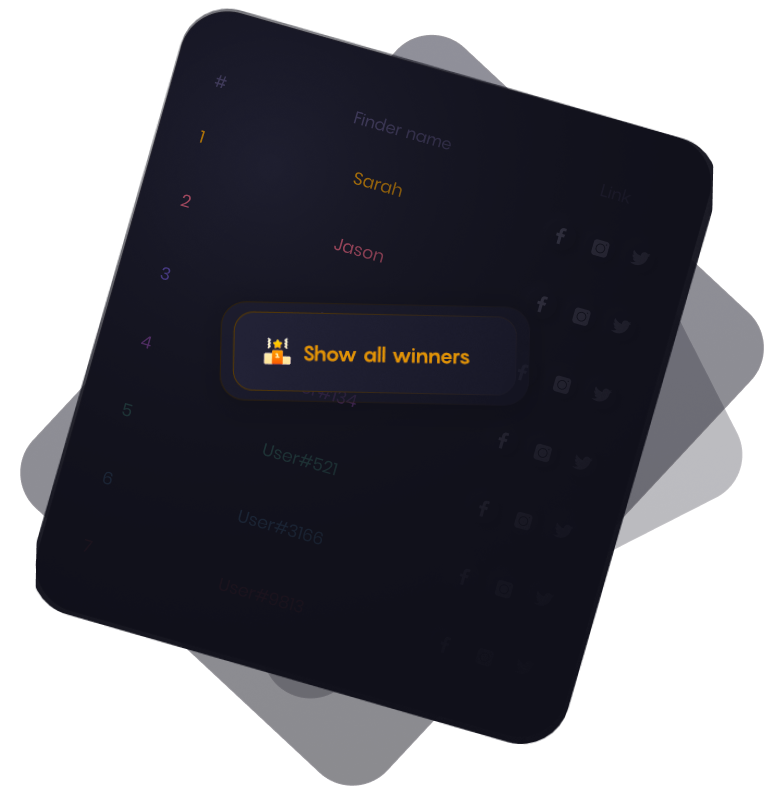
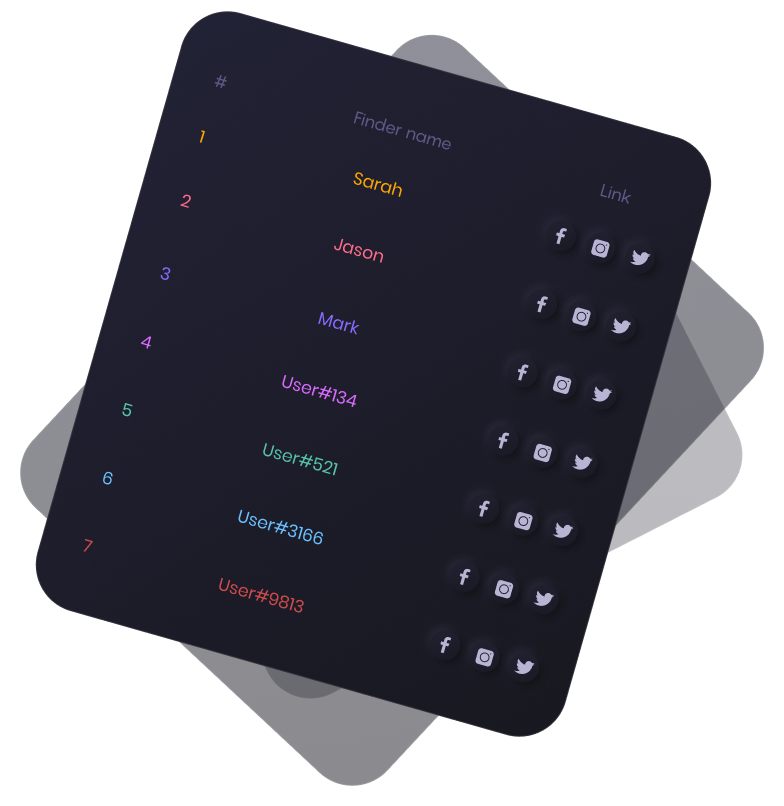
fix: update buttons

diff --git a/common/home/worldmap-section/styled.ts b/common/home/worldmap-section/styled.ts
@@ -96,35 +96,81 @@ export const WorldMapSectionContainer = styled(Container)`
   }
 `
 
-export const DiscoverButton = styled.button`
-  outline: none;
-  border: none;
-  width: 422px;
-  height: 185px;
-  background: url(/assets/images/home/discover-btn.png);
-  background-size: 100% 100%;
-  border-radius: 42px;
+export const DiscoverButton = styled.div`
+  width: 387px;
+  height: 147px;
+  background: rgba(99, 47, 255, 0.5);
+  border-radius: 30px;
   cursor: pointer;
   margin-top: 109px;
   z-index: 1;
+  display: flex;
+  align-items: center;
+  justify-content: center;
+  box-shadow: 8.34859px 8.34859px 16.6972px rgba(7, 7, 9, 0.662234), -6.26144px -6.26144px 16.6972px rgba(44, 44, 64, 0.480059);
+  :hover {
+    box-shadow: none;
+  }
+  .wrapper {
+    width: 375px;
+    height: 134px;
+    background: linear-gradient(135deg, #222236cc -29.19%, #181820cc 70.81%);
+    border: 1.04357px solid rgba(122, 82, 251, 0.5);
+    border-radius: 20px;
+    display: flex;
+    align-items: center;
+    justify-content: center;
 
-  @media screen and (max-width: 1024px) {
-    width: 41.2vw;
-    height: 18vw;
-    margin-top: 50px;
+    .content {
+      width: 342px;
+      height: 105px;
+      background: linear-gradient(135deg, #2d223699 0%, #18182099 100%);
+      border: 1px solid #642bff;
+      border-radius: 16px;
+      font-family: 'Inter';
+      font-weight: 700;
+      font-size: 30px;
+      line-height: 36px;
+      color: #7a52fb;
+      display: flex;
+      align-items: center;
+      justify-content: center;
+      @media screen and (max-width: 1024px) {
+        font-size: 2.92vw;
+        line-height: 3.51vw;
+      }
+    }
   }
 
-  @media screen and (max-width: 768px) {
-    width: 31.2vw;
-    height: 15vw;
+  @media screen and (max-width: 1024px) {
+    width: 37.79vw;
+    height: 14.35vw;
+    .wrapper {
+      width: 36.62vw;
+      height: 13.08vw;
+      .content {
+        width: 33.39vw;
+        height: 10.25vw;
+      }
+    }
     margin-top: 50px;
   }
 
   @media screen and (max-width: 426px) {
-    width: 159px;
-    height: 72px;
-    margin-top: 80px;
+    width: 40.79vw;
+    height: 17.35vw;
     border-radius: 12px;
+    .wrapper {
+      width: 39.62vw;
+      height: 16.08vw;
+      border-radius: 10px;
+      .content {
+        width: 36.39vw;
+        height: 13.25vw;
+        border-radius: 8px;
+      }
+    }
+    margin-top: 80px;
   }
 `
 
@@ -133,7 +179,7 @@ export const GrosstessImg = styled.div`
   height: 200px;
   background: url(/assets/images/home/grosstess.png);
   background-size: 100% 100%;
-  margin-top: 70px;
+  margin-top: 120px;
   z-index: 1;
 
   @media screen and (max-width: 1200px) {
@@ -144,12 +190,15 @@ export const GrosstessImg = styled.div`
   @media screen and (max-width: 1024px) {
     width: 95vw;
     height: 14vw;
-    margin-top: 30px;
+    margin-top: 80px;
+  }
+
+  @media screen and (max-width: 768px) {
+    margin-top: 50px;
   }
 
   @media screen and (max-width: 426px) {
     width: 323px;
     height: 49px;
-    margin-top: 50px;
   }
 `

diff --git a/common/home/winners-section/index.tsx b/common/home/winners-section/index.tsx
@@ -5,7 +5,7 @@ import { useMediaQuery } from 'react-responsive'
 import { FaFacebookF } from 'react-icons/fa'
 import { AiFillInstagram, AiOutlineTwitter } from 'react-icons/ai'
 import Wrapper from '../../../components/wrapper'
-import { WinnersSectionContainer, Title, Description, Tip, ListButton, MeteorImg, WinnersList, WinnerTable } from './styled'
+import { WinnersSectionContainer, Title, Description, Tip, ListButton, MeteorImg, WinnersList, WinnerTable, WinnersListButton } from './styled'
 import type { WinnerlistStaticData } from '../../../types/winnerlist-static-data'
 import { winnerlistStaticData } from '../../../static/winnerlist-static-data'
 
@@ -27,7 +27,15 @@ const WinnersSection: React.FC = () => {
               Hier findest du alle Gewinner, die einen GalaxyBalls in deinem Land gefunden haben. Finde die Kugeln und werde in die Rangliste
               aufgenommen, umso mehr Kugeln du findest, desto mehr Einträge bekommst du!
             </p>
-            {isTablet && !isMobile && <WinnersList />}
+            {isTablet && !isMobile && (
+              <WinnersList>
+                <WinnersListButton onClick={toggle}>
+                  <div className="wrapper">
+                    <span>Show all Winners</span>
+                  </div>
+                </WinnersListButton>
+              </WinnersList>
+            )}
             {isMobile && (
               <WinnerTable>
                 <thead>
@@ -69,7 +77,15 @@ const WinnersSection: React.FC = () => {
             <ListButton onClick={toggle}>Vollständige Liste</ListButton>
           </Description>
         </section>
-        {!isTablet && <WinnersList />}
+        {!isTablet && (
+          <WinnersList>
+            <WinnersListButton onClick={toggle}>
+              <div className="wrapper">
+                <span>Show all Winners</span>
+              </div>
+            </WinnersListButton>
+          </WinnersList>
+        )}
         <WinnersModal isShown={isShown} hide={toggle} />
       </WinnersSectionContainer>
     </Wrapper>

diff --git a/common/home/winners-section/styled.ts b/common/home/winners-section/styled.ts
@@ -172,11 +172,71 @@ export const WinnersList = styled.div`
   margin-top: 120px;
   position: relative;
   z-index: 0;
+  opacity: 0.8;
+  display: flex;
+  justify-content: center;
 
   @media screen and (max-width: 1024px) {
     width: 76vw;
     height: 78vw;
     margin-top: 50px;
+    align-items: center;
+  }
+`
+
+export const WinnersListButton = styled.div`
+  margin-top: 300px;
+  width: 303.49px;
+  height: 95.74px;
+  background: linear-gradient(135deg, #222236 -29.19%, #181820 70.81%);
+  border: 1px solid rgba(225, 147, 4, 0.1);
+  box-shadow: 18.34859px 18.34859px 26.6972px rgba(7, 7, 9, 0.662234), -16.26144px -16.26144px 26.6972px rgba(44, 44, 64, 0.480059);
+  border-radius: 20px;
+  display: flex;
+  align-items: center;
+  justify-content: center;
+  cursor: pointer;
+
+  :hover {
+    box-shadow: none;
+  }
+
+  @media screen and (max-width: 1024px) {
+    margin-top: 0;
+  }
+
+  @media screen and (max-width: 768px) {
+    width: 39.51vw;
+    height: 12.46vw;
+  }
+
+  div {
+    width: 276.78px;
+    height: 75.02px;
+    background: linear-gradient(135deg, #2d2236 0%, #181820 100%);
+    border: 1px solid #e19304;
+    border-radius: 16px;
+    display: flex;
+    align-items: center;
+    justify-content: center;
+
+    @media screen and (max-width: 768px) {
+      width: 36.03vw;
+      height: 9.76vw;
+    }
+
+    span {
+      font-family: ${theme.fontFamily.primary};
+      font-weight: 500;
+      font-size: 25px;
+      line-height: 38px;
+      color: #e19304;
+
+      @media screen and (max-width: 768px) {
+        font-size: 3.25vw;
+        line-height: 3.71vw;
+      }
+    }
   }
 `
 

diff --git a/common/home/worldmap-section/index.tsx b/common/home/worldmap-section/index.tsx
@@ -15,7 +15,11 @@ const WorldMapSection: React.FC = () => {
           Hier siehst du in welchem Land sich die GalaxyBalls derzeit befinden.Du kannst aber auch erfahren in welches zukünftige Land die GalaxyBalls
           landen werden.
         </p>
-        <DiscoverButton onClick={toggle}></DiscoverButton>
+        <DiscoverButton onClick={toggle}>
+          <div className="wrapper">
+            <div className="content">Discover the World</div>
+          </div>
+        </DiscoverButton>
         <GrosstessImg />
       </WorldMapSectionContainer>
       <WorldMapModal isShown={isShown} hide={toggle} />
